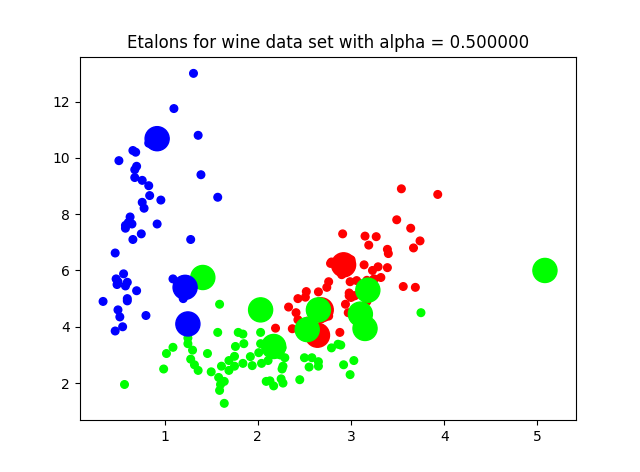
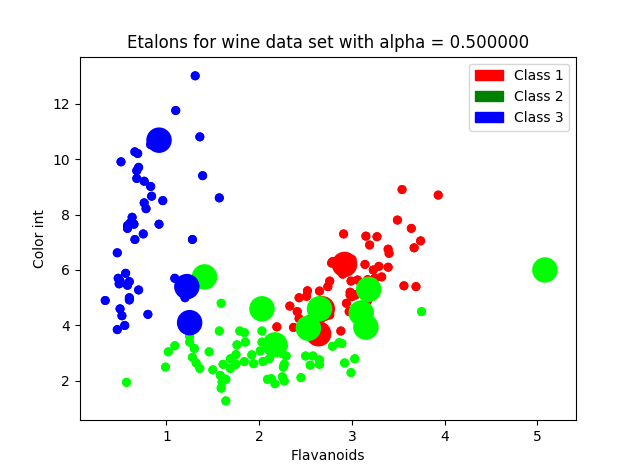
add map legend and axes labels

diff --git a/fris-stolp/fris-stolp.py b/fris-stolp/fris-stolp.py
@@ -1,28 +1,31 @@
 import numpy as np
 import matplotlib.pyplot as plt
+import matplotlib.patches as mpatches
 from matplotlib.colors import ListedColormap
 from sklearn import neighbors, datasets
 from sklearn.neighbors import NearestNeighbors
 from scipy.spatial import distance
 
-# iris = datasets.load_iris()
-# # take two features
-# X = iris.data[:, [2,3]]
-# y = iris.target
 
-wine = datasets.load_wine()
-# take the first two features
-X = wine.data[:, [6,9]]
-y = wine.target
+iris = datasets.load_iris()
+# take two features
+X = iris.data[:, [2, 3]]
+y = iris.target
+
+# wine = datasets.load_wine()
+# # take the first two features
+# # X = wine.data[:, [6,9]]
+# X = wine.data[:, [5,12]]
+# y = wine.target
 
 n = len(X)  # data length
 xl = np.arange(n)  # data indexes
 
 eps = 1e-5
-alpha = 0.9
-tetta = 0.2
+alpha = 0.5
+tetta = 0.1
 
-#substraction of two sets
+# substraction of two sets
 def sets_diff(a1, a2):
     a1 = np.atleast_1d(a1)
     a2 = np.atleast_1d(a2)
@@ -32,7 +35,7 @@ def sets_diff(a1, a2):
         return a1
     return np.setdiff1d(a1,a2)
 
-#union of two sets
+# union of two sets
 def sets_union(a1, a2):
     a1 = np.atleast_1d(a1)
     a2 = np.atleast_1d(a2)
@@ -42,58 +45,59 @@ def sets_union(a1, a2):
         return a1
     return np.union1d(a1,a2)
 
-#fris-function
+# fris-function
 def fris(a, b, x):
     return (distance.euclidean(a, x) - distance.euclidean(a, b)) / (distance.euclidean(a, x) + distance.euclidean(a, b) + eps)
 
-#returns nearest to u object from U
+# returns nearest to u object from U
 def nearest_neighbor(u, U):
     nbrs = NearestNeighbors(n_neighbors=1)
     nbrs.fit(U)
     return U[nbrs.kneighbors(u, return_distance=False)]
 
-#return new etalon (index) for Y class based on existing etalons 'etalons' and set of Xy elements of Y class
+# return new etalon (index) for Y class based on existing etalons 'etalons' and set of Xy elements of Y class
 def find_etalon(Xy, etalons):
     length = len(Xy)
     if length == 1:
         return Xy[0]
-	#get etalons values by indexes
-    etalonsVal = []
+    # get etalons values by indexes
+    etalons_val = []
     for i in etalons:
-        etalonsVal.append(X[i])
-    etalonsVal = np.asarray(etalonsVal)
+        etalons_val.append(X[i])
+    etalons_val = np.asarray(etalons_val)
     D, T, E = [], [], []
     i = 0
-    arrDiff = sets_diff(xl, Xy) #X/Xy
+    arrDiff = sets_diff(xl, Xy)  # X/Xy
     for x in range(length):
-        #defence
+        # defence
         sum = 0
         for u in range(length):
             if u == x:
                 continue
-            sum = sum + fris(X[Xy[u]], X[Xy[x]], nearest_neighbor(np.reshape(X[Xy[u]], (1,-1)), etalonsVal))
-        #defence
+            sum = sum + fris(X[Xy[u]], X[Xy[x]], nearest_neighbor(np.reshape(X[Xy[u]], (1,-1)), etalons_val))
+        # defence
         D.append(sum/(len(Xy) - 1))
 
         # tolerance
         sum = 0
         for v in range(len(arrDiff)):
-            sum = sum + fris(X[arrDiff[v]], X[Xy[x]], nearest_neighbor(np.reshape(X[arrDiff[v]], (1,-1)), etalonsVal))
-        #tolerance
+            sum = sum + fris(X[arrDiff[v]], X[Xy[x]], nearest_neighbor(np.reshape(X[arrDiff[v]], (1,-1)), etalons_val))
+        # tolerance
         T.append(sum/(len(arrDiff)))
 
         # efficiency
         E.append(alpha*D[i] + (1-alpha)*T[i])
 
         i = i + 1
-    return Xy[np.argmax((E))] #index from Xy
+    return Xy[np.argmax((E))]  # index from Xy
+
 
 def fris_stolp():
     xByClass = []
     for i in np.unique(y):
-        xByClass.append(np.arange(n)[y==i])
+        xByClass.append(np.arange(n)[y == i])
 
-    #step1: finding etalon0
+    # step1: finding etalon0
     etalon0 = []
     for i in (np.unique(y)):
         etalon0.append(find_etalon(xByClass[i], sets_diff(xl, xByClass[i])))
@@ -101,7 +105,7 @@ def fris_stolp():
     print("Initial etalons:")
     print(etalon0)
 
-    #step2: initializing etalons for all classes
+    # step2: initializing etalons for all classes
     etalonsUnion = []
     for i in (np.unique(y)):
         etalonsUnion = sets_union(etalonsUnion, etalon0[i])
@@ -112,34 +116,34 @@ def fris_stolp():
     print("etalons:")
     print(etalons)
 
-    #step3: repeat steps4-6 untill X is not empty
-    etalonsList = [] #use this trick for comfortable array substaction
+    # step3: repeat steps4-6 untill X is not empty
+    etalonsList = []  # use this trick for comfortable array substaction
     for i in (np.unique(y)):
         etalonsList = sets_union(etalonsList, etalons[i])
 
     xIndexes = xl
     while (len(xIndexes)):
-        #step4: initialize correct obj
+        # step4: initialize correct obj
         correct = []
         for i in range(len(xIndexes)):
-            index = xIndexes[i] #elemet index
+            index = xIndexes[i]  # elemet index
             x = X[index]
             yClass = y[index]
 
-			#values of etalons for specific class
+            # values of etalons for specific class
             etalonsYVal = []
             for j in np.atleast_1d(etalons[yClass]):
                 etalonsYVal.append(X[j])
             etalonsYVal = np.asarray(etalonsYVal)
 
-			#values of etalons for another classes
-            etalonsDif = sets_diff(etalonsList, etalons[yClass])
-            etalonsVal = []
-            for j in np.atleast_1d(etalonsDif):
-                etalonsVal.append(X[j])
-            etalonsVal = np.asarray(etalonsVal)
+            # values of etalons for another classes
+            etalons_dif = sets_diff(etalonsList, etalons[yClass])
+            etalons_val = []
+            for j in np.atleast_1d(etalons_dif):
+                etalons_val.append(X[j])
+            etalons_val = np.asarray(etalons_val)
 
-            val = fris(x, nearest_neighbor(np.reshape(x, (1,-1)), etalonsYVal), nearest_neighbor(np.reshape(x, (1,-1)), etalonsVal))
+            val = fris(x, nearest_neighbor(np.reshape(x, (1,-1)), etalonsYVal), nearest_neighbor(np.reshape(x, (1,-1)), etalons_val))
             if (val > tetta):
                 correct.append(index)
         print("correct")
@@ -147,12 +151,12 @@ def fris_stolp():
         if (not len(correct)):
             break
 
-        #step5: delete correct from xByClass and xIndexes
+        # step5: delete correct from xByClass and xIndexes
         for i in np.unique(y):
             xByClass[i] = sets_diff(xByClass[i], correct)
         xIndexes = sets_diff(xIndexes, correct)
 
-        #step6: add new etalon for each class
+        # step6: add new etalon for each class
         for i in np.unique(y):
             if (len(xByClass[i])):
                 etalons[i] = sets_union(etalons[i], find_etalon(xByClass[i], sets_diff(etalonsList,etalons[i])))
@@ -175,5 +179,11 @@ colors = ListedColormap(['#FF0000', '#00FF00', '#0000FF'])
 plt.scatter(X[:,0], X[:,1], c=y, cmap=colors, s=30)
 plt.scatter(X[etalons,0], X[etalons,1], c=y[etalons], cmap=colors, s=300)
 # plt.title("Etalons for iris flower data set with alpha = %f" % alpha)
-plt.title("Etalons for wine data set with alpha = %f" % alpha)
+plt.title("Etalons for iris data set with alpha = %f" % alpha)
+plt.xlabel("Sepal Length")
+plt.ylabel("Sepal Width")
+red_patch = mpatches.Patch(color="red", label="Setosa")
+green_patch = mpatches.Patch(color="green", label="Versicolor")
+blue_patch = mpatches.Patch(color="blue", label="Virginica")
+plt.legend(handles=[red_patch, green_patch, blue_patch])
 plt.show()

diff --git a/fris-stolp/readme.md b/fris-stolp/readme.md
@@ -2,10 +2,13 @@
 
 **Алгоритм FRiS-СТОЛП (FRiS-STOLP)** - алгоритм отбора эталонных объектов для метрического классификатора на основе FRiS-функции.
 Одной из основных проблем, возникающих при решении задачи классификации каких-либо объектов, является проблема выбора меры схожести. Чаще всего в этой роли выступает расстояние, однако в некоторых задачах удается добиться более достоверного результата, используя более специфичные меры. 
+
 **FRiS-функция** — мера схожести двух объектов относительно некоторого третьего объекта. В отличие от классических мер расстояния, эта функция позволяет не просто сказать, похожи объекты друг на друга или нет, но и уточнить ответ на вопрос «по сравнению с чем?». Такой подход позволяет учитывать большее число факторов при классификации.
 
 На рисунке ниже приведён пример случая, когда FRiS функция, как мера сходства, работает лучше, чем обычная метрика:
+
 ![](https://raw.githubusercontent.com/elvinayakubova/machine-learning/master/fris-stolp/img/fris-func_example.png)
+
 Объекты «красные квадраты» и «синие круги» образуют два класса. Рассматриваемый объект «желтый шестиугольник» располагается ближе к классу «синих кругов», но судя по структуре классов он является типичным представителем «красных квадратов». В большинстве подобных случаев функция конкурентного сходства будет работать корректно.
 
 
@@ -15,10 +18,8 @@
 ![](https://raw.githubusercontent.com/elvinayakubova/machine-learning/master/fris-stolp/img/iris_09_01.png)
 ![](https://raw.githubusercontent.com/elvinayakubova/machine-learning/master/fris-stolp/img/wine_05_01.png)
 ![](https://raw.githubusercontent.com/elvinayakubova/machine-learning/master/fris-stolp/img/wine_07_01.png)
-![](https://raw.githubusercontent.com/elvinayakubova/machine-learning/master/fris-stolp/img/wine_09_01.png)
 ![](https://raw.githubusercontent.com/elvinayakubova/machine-learning/master/fris-stolp/img/wine_05_02.png)
 ![](https://raw.githubusercontent.com/elvinayakubova/machine-learning/master/fris-stolp/img/wine_07_02.png)
-![](https://raw.githubusercontent.com/elvinayakubova/machine-learning/master/fris-stolp/img/wine_09_02.png)
 
 Алгоритм FRiS-STOLP создаёт в процессе работы сокращенное описание обучающей выборки. Это позволяет сократить расход памяти, избавиться от ошибок и выбросов, содержащихся в ней, но при этом сохранить информацию, необходимую для дальнейшего распознавания новых объектов.
 
